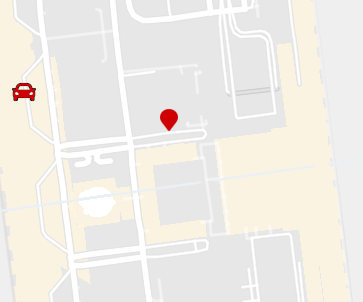
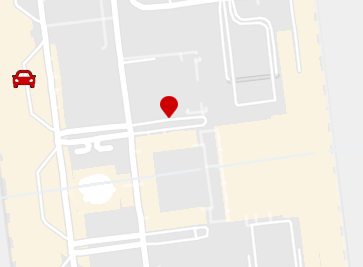
Second screen

diff --git a/src/components/ArrivalScreen.js b/src/components/ArrivalScreen.js
@@ -1,5 +1,6 @@
 import React from 'react';
 import mercedesImg from '../assets/mercedes.jpg'
+import mapAirport from '../assets/map_airport.png'
 
 import Header from './Header';
 import Textfield from './Textfield';
@@ -14,7 +15,7 @@ const ArrivalScreen = function(props) {
           <Header destinationName="ibis Hotel Garching" />
         </header>
         <Textfield headline="Your car is waiting for you" paragraph=""/>
-        <Location />
+        <Location image={mapAirport} />
         <Textfield headline="Parkhaus P1" paragraph="   250 meters, ETA: 4 minutes"/>
         <CarInfo carName="Mercedes Benz AMG CLA" carImg={mercedesImg} />
         <Toast message="Your hotel and host have been notified of your arrival" />

diff --git a/src/App.js b/src/App.js
@@ -1,12 +1,15 @@
 import React, { Component } from 'react';
 import './App.css';
 import ArrivalScreen from './components/ArrivalScreen';
+import CarScreen from './components/CarScreen';
+
[1 lines of base64/hex data omitted]
 
 class App extends Component {
   render() {
     return (
-      <ArrivalScreen />
+      //<ArrivalScreen />
+      <CarScreen />
     );
   }
 }

diff --git a/src/components/CarScreen.js b/src/components/CarScreen.js
@@ -1,0 +1,18 @@
+import React from 'react';
+import Header from './Header';
+import Eta from './Eta';
+import Location from './Location';
+
+import fullMap from '../assets/map_full.png'
+
+const CarScreen = function(props) {
+    return (
+        <div class="container">
+            <Header destinationName="ibis Hotel Garching" />
+            <Location image={fullMap} />
+            <Eta time="20:00"/>
+        </div>
+    );
+};
+
+export default CarScreen;

diff --git a/src/components/Location.js b/src/components/Location.js
@@ -1,12 +1,11 @@
 import React from 'react';
-import mapAirport from '../assets/map_airport.png'
 
 const Location = (props) => {
 
 
     return (
         <div>
-            <img src={mapAirport} />
+            <img style={{boxShadow: '2px 2px rgba(0,0,0,0.2)', width: '100%'}}src={props.image} />
         </div>
     )
 }

diff --git a/src/components/Toast.js b/src/components/Toast.js
@@ -5,7 +5,7 @@ const Toast = (props) => {
 
 
     return (
-        <div style={{backgroundColor: AppStyles.brightRed, padding: '5px', marginTop: '10px'}}>
+        <div style={{backgroundColor: AppStyles.brightRed, padding: '5px', marginTop: '5px'}}>
             {props.message}
         </div>
     )

diff --git a/src/components/EnvironmentInfo.js b/src/components/EnvironmentInfo.js
@@ -5,7 +5,8 @@ const EnvironmentInfo = (props) => {
 
     return (
         <div>
-
+            <i class="fas fa-cloud-sun"></i>
+            <span style={{fontWeight: 'bold'}}>GEILES WETTER</span>
         </div>
     )
 }
